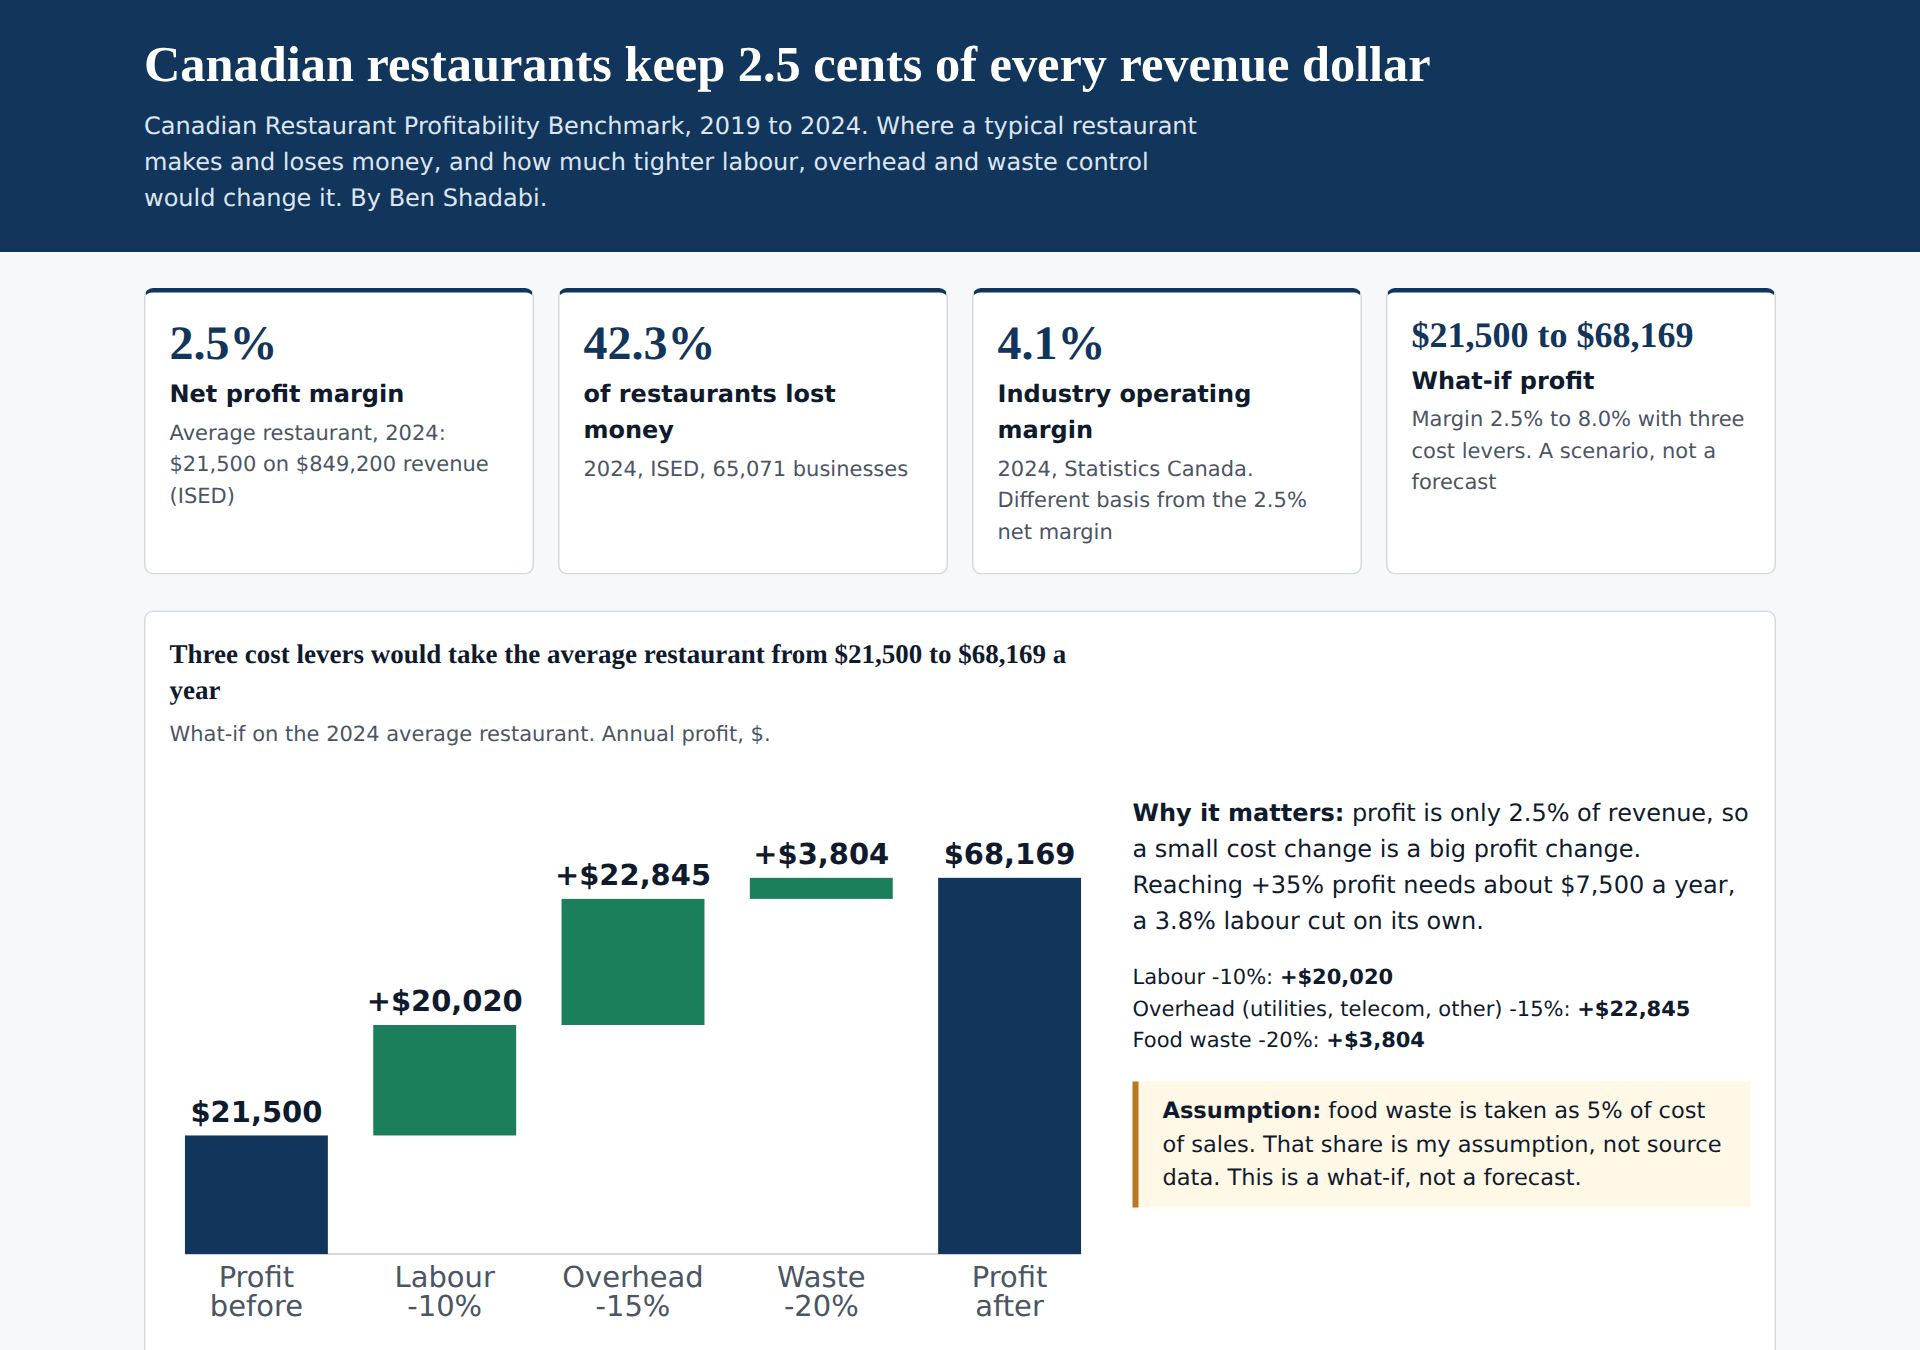
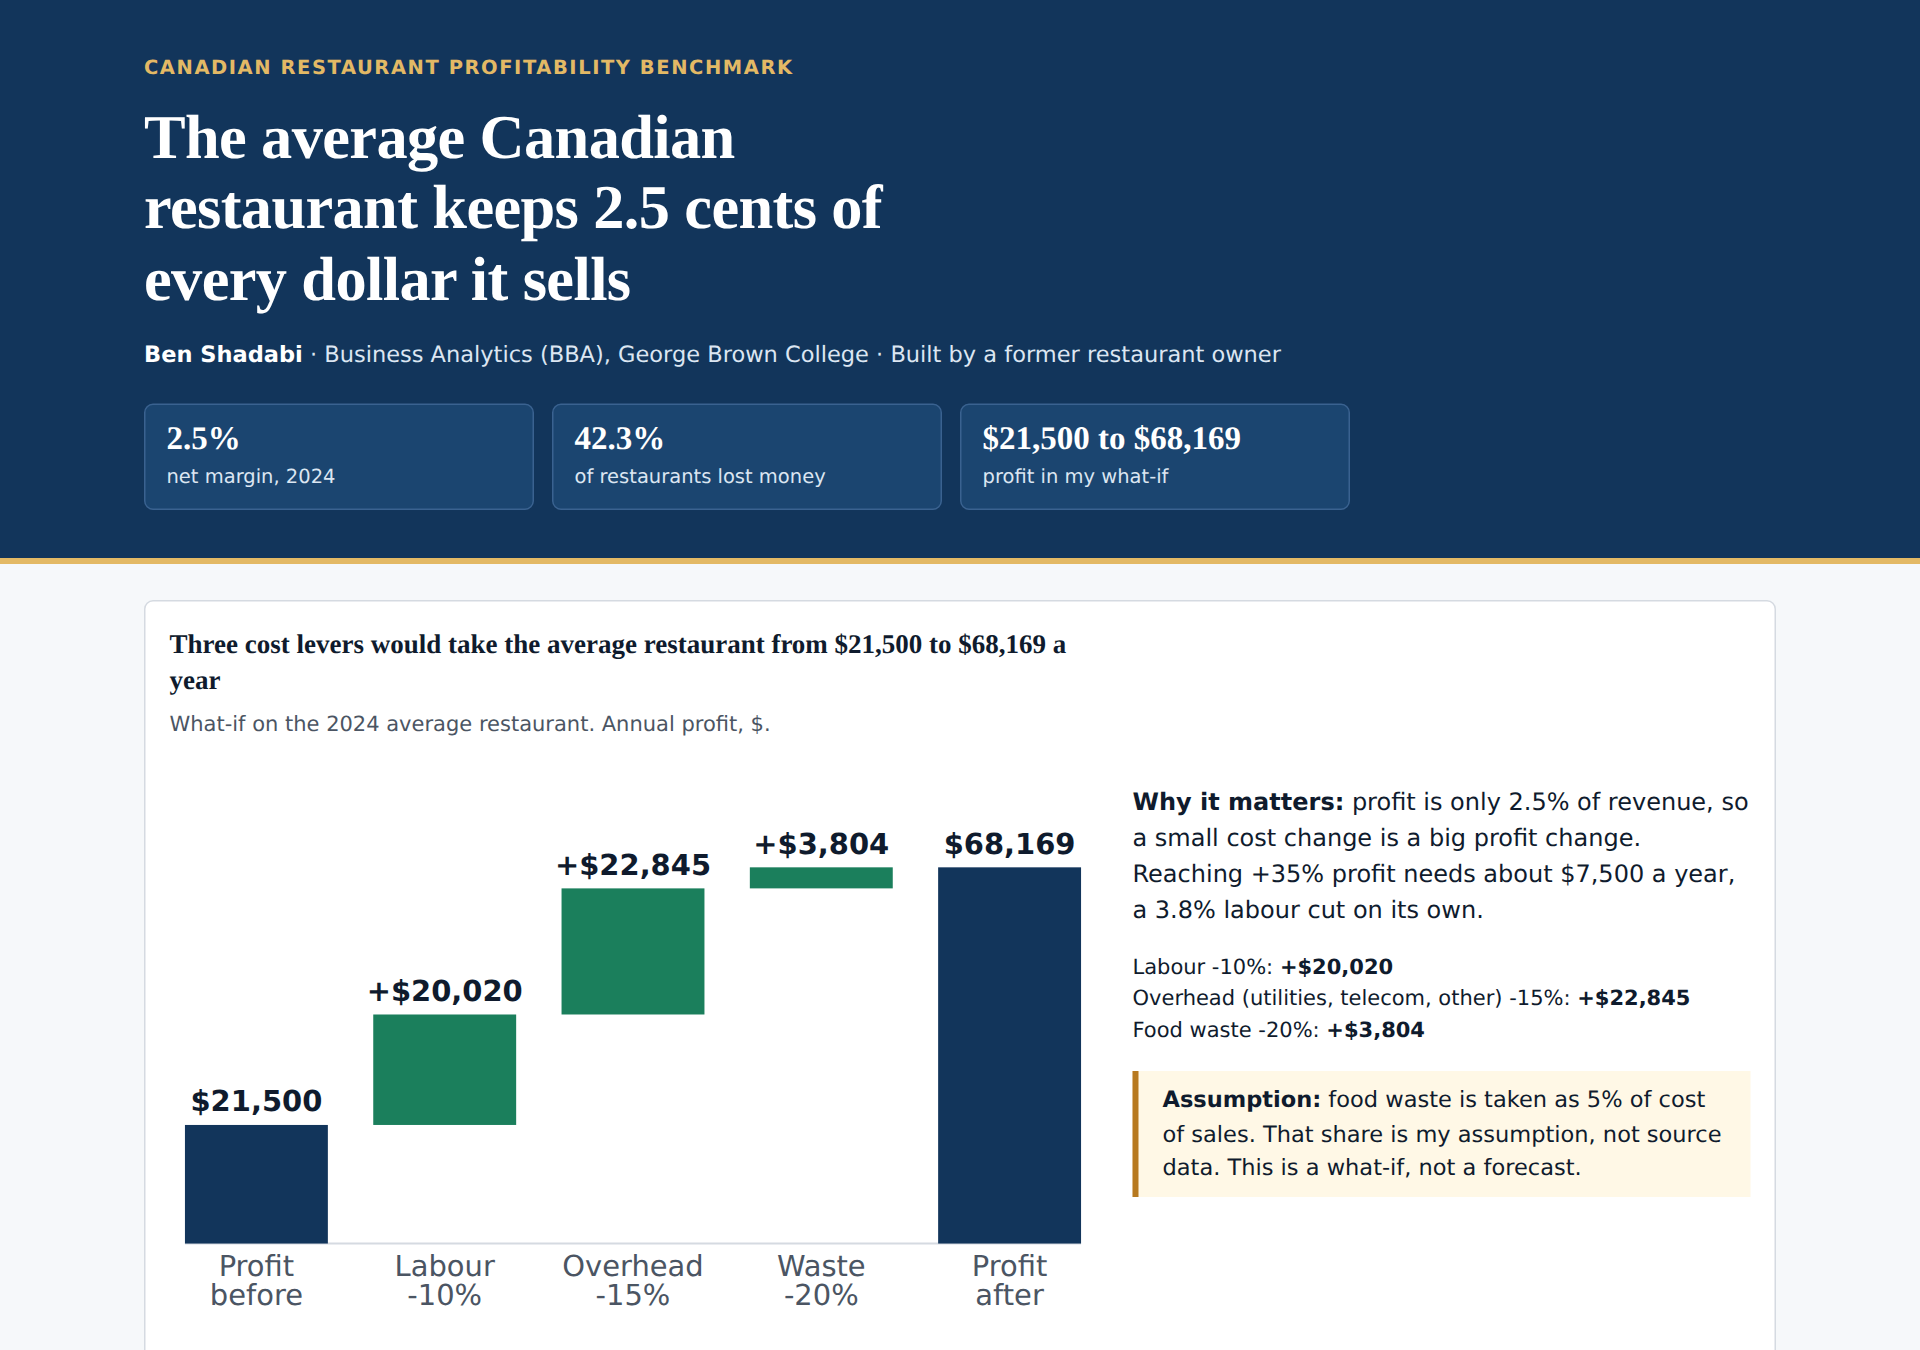
Dashboard header: finding headline, byline and three stat chips
Claude-Session: https://claude.ai/code/session_01T57CWqisSdhbNGN4esb2BE

diff --git a/docs/dashboard.html b/docs/dashboard.html
@@ -10,16 +10,16 @@
 body{margin:0;background:var(--bg);color:var(--ink);font:16px/1.5 var(--sans)}
 .wrap{max-width:1120px;margin:0 auto;padding:0 var(--sp3)}
 .skip{position:absolute;left:-999px}.skip:focus{left:var(--sp3);top:var(--sp2);background:#fff;padding:var(--sp2);z-index:9}
-header{background:var(--navy);color:#fff;padding:var(--sp4) 0}
-header h1{font:600 clamp(1.5rem,4vw,2.1rem)/1.2 var(--serif);margin:0 0 var(--sp2)}
-header p{margin:0;color:#DCE6F2;max-width:70ch}
+header{background:var(--navy);color:#fff;padding:36px 0 32px;border-bottom:4px solid #E3B965}
+.kicker{margin:0 0 12px;font-size:.8125rem;letter-spacing:.08em;text-transform:uppercase;color:#E3B965;font-weight:600}
+header h1{font:600 clamp(1.65rem,4.6vw,2.6rem)/1.15 var(--serif);letter-spacing:-.01em;margin:0;max-width:26ch}
+.by{margin:14px 0 0;font-size:.9375rem;color:#DCE6F2}.by strong{color:#fff}
+.chips{display:flex;gap:12px;flex-wrap:wrap;margin:22px 0 0;padding:0;list-style:none}
+.chips li{padding:10px 14px;border-radius:6px;min-width:150px;flex:1 1 150px;max-width:260px;background:#1B4570;border:1px solid #3A6290}
+.chips b{display:block;font:600 1.375rem/1.1 var(--serif)}.chips span{font-size:.8125rem;color:#DCE6F2}
 h2{font:600 1.125rem/1.35 var(--serif);margin:0 0 var(--sp2);color:var(--ink)}
-.kpis{display:grid;grid-template-columns:repeat(4,1fr);gap:var(--sp3);margin:var(--sp4) 0}
-.kpi{background:var(--card);border:1px solid var(--grid);border-top:3px solid var(--navy);border-radius:6px;padding:var(--sp3)}
-.kpi .v{font:600 2rem/1.1 var(--serif);color:var(--navy)}.kpi .v.sm{font-size:1.5rem}
-.kpi .l{font-weight:600;margin-top:var(--sp1)}.kpi .s{color:var(--muted);font-size:.875rem;margin-top:var(--sp1)}
 .card{background:var(--card);border:1px solid var(--grid);border-radius:6px;padding:var(--sp3) var(--sp3) var(--sp4)}
-.hero{margin-bottom:var(--sp3)}
+.hero{margin:var(--sp4) 0 var(--sp3)}
 .hero .in{display:grid;grid-template-columns:3fr 2fr;gap:var(--sp4);align-items:center}
 .grid{display:grid;grid-template-columns:repeat(2,1fr);gap:var(--sp3);margin-bottom:var(--sp3)}
 .sub{color:var(--muted);font-size:.875rem;margin:0 0 var(--sp2)}
@@ -39,20 +39,17 @@ summary:focus-visible,a:focus-visible{outline:3px solid var(--gold);outline-offs
 .tw{overflow-x:auto;margin-bottom:var(--sp3)}table{border-collapse:collapse;width:100%;font-size:.875rem;font-variant-numeric:tabular-nums}
 th,td{padding:6px 10px;border-bottom:1px solid var(--grid);text-align:right;white-space:nowrap}th:first-child,td:first-child{text-align:left}th{background:#EEF1F5}
 footer{color:var(--muted);font-size:.875rem;padding:var(--sp3) 0 var(--sp5)}footer a,.notes a{color:var(--navy)}
-@media(max-width:900px){.kpis{grid-template-columns:repeat(2,1fr)}.hero .in{grid-template-columns:1fr}.grid{grid-template-columns:1fr}}
-@media(max-width:480px){.kpi .v{font-size:1.625rem}.kpi .v.sm{font-size:1.25rem}.bars li{grid-template-columns:1fr 56px}.bars .bar{grid-column:1/-1;grid-row:2}.bars .k{grid-column:1}.bars b{grid-column:2;grid-row:1}}
-@media print{header{background:#fff;color:#000}header p{color:#000}.card,.kpi{break-inside:avoid}}
+@media(max-width:900px){.hero .in{grid-template-columns:1fr}.grid{grid-template-columns:1fr}}
+@media(max-width:480px){.bars li{grid-template-columns:1fr 56px}.bars .bar{grid-column:1/-1;grid-row:2}.bars .k{grid-column:1}.bars b{grid-column:2;grid-row:1}}
+@media print{header{background:#fff;color:#000}header p,.by,.kicker,.chips span{color:#000}.chips li{background:#fff;border-color:#000}.card{break-inside:avoid}}
 </style></head><body>
 <a class="skip" href="#main">Skip to content</a>
-<header><div class="wrap"><h1>Canadian restaurants keep 2.5 cents of every revenue dollar</h1>
-<p>Canadian Restaurant Profitability Benchmark, 2019 to 2024. Where a typical restaurant makes and loses money, and how much tighter labour, overhead and waste control would change it. By Ben Shadabi.</p></div></header>
+<header><div class="wrap"><p class="kicker">Canadian Restaurant Profitability Benchmark</p>
+<h1>The average Canadian restaurant keeps 2.5 cents of every dollar it sells</h1>
+<p class="by"><strong>Ben Shadabi</strong> · Business Analytics (BBA), George Brown College · Built by a former restaurant owner</p>
+<ul class="chips"><li><b>2.5%</b><span>net margin, 2024</span></li><li><b>42.3%</b><span>of restaurants lost money</span></li><li><b>$21,500 to $68,169</b><span>profit in my what-if</span></li></ul></div></header>
 <main id="main" class="wrap">
-<section class="kpis" aria-label="Key numbers">
-<div class="kpi"><div class="v">2.5%</div><div class="l">Net profit margin</div><div class="s">Average restaurant, 2024: $21,500 on $849,200 revenue (ISED)</div></div>
-<div class="kpi"><div class="v">42.3%</div><div class="l">of restaurants lost money</div><div class="s">2024, ISED, 65,071 businesses</div></div>
-<div class="kpi"><div class="v">4.1%</div><div class="l">Industry operating margin</div><div class="s">2024, Statistics Canada. Different basis from the 2.5% net margin</div></div>
-<div class="kpi"><div class="v sm">$21,500 to $68,169</div><div class="l">What-if profit</div><div class="s">Margin 2.5% to 8.0% with three cost levers. A scenario, not a forecast</div></div>
-</section>
+
 
 <section class="card hero" aria-labelledby="h-wf"><div class="in"><div>
 <h2 id="h-wf">Three cost levers would take the average restaurant from $21,500 to $68,169 a year</h2>

diff --git a/analysis/build_dashboard.py b/analysis/build_dashboard.py
@@ -169,16 +169,16 @@ CSS = f"""
 body{{margin:0;background:var(--bg);color:var(--ink);font:16px/1.5 var(--sans)}}
 .wrap{{max-width:1120px;margin:0 auto;padding:0 var(--sp3)}}
 .skip{{position:absolute;left:-999px}}.skip:focus{{left:var(--sp3);top:var(--sp2);background:#fff;padding:var(--sp2);z-index:9}}
-header{{background:var(--navy);color:#fff;padding:var(--sp4) 0}}
-header h1{{font:600 clamp(1.5rem,4vw,2.1rem)/1.2 var(--serif);margin:0 0 var(--sp2)}}
-header p{{margin:0;color:#DCE6F2;max-width:70ch}}
+header{{background:var(--navy);color:#fff;padding:36px 0 32px;border-bottom:4px solid #E3B965}}
+.kicker{{margin:0 0 12px;font-size:.8125rem;letter-spacing:.08em;text-transform:uppercase;color:#E3B965;font-weight:600}}
+header h1{{font:600 clamp(1.65rem,4.6vw,2.6rem)/1.15 var(--serif);letter-spacing:-.01em;margin:0;max-width:26ch}}
+.by{{margin:14px 0 0;font-size:.9375rem;color:#DCE6F2}}.by strong{{color:#fff}}
+.chips{{display:flex;gap:12px;flex-wrap:wrap;margin:22px 0 0;padding:0;list-style:none}}
+.chips li{{padding:10px 14px;border-radius:6px;min-width:150px;flex:1 1 150px;max-width:260px;background:#1B4570;border:1px solid #3A6290}}
+.chips b{{display:block;font:600 1.375rem/1.1 var(--serif)}}.chips span{{font-size:.8125rem;color:#DCE6F2}}
 h2{{font:600 1.125rem/1.35 var(--serif);margin:0 0 var(--sp2);color:var(--ink)}}
-.kpis{{display:grid;grid-template-columns:repeat(4,1fr);gap:var(--sp3);margin:var(--sp4) 0}}
-.kpi{{background:var(--card);border:1px solid var(--grid);border-top:3px solid var(--navy);border-radius:6px;padding:var(--sp3)}}
-.kpi .v{{font:600 2rem/1.1 var(--serif);color:var(--navy)}}.kpi .v.sm{{font-size:1.5rem}}
-.kpi .l{{font-weight:600;margin-top:var(--sp1)}}.kpi .s{{color:var(--muted);font-size:.875rem;margin-top:var(--sp1)}}
 .card{{background:var(--card);border:1px solid var(--grid);border-radius:6px;padding:var(--sp3) var(--sp3) var(--sp4)}}
-.hero{{margin-bottom:var(--sp3)}}
+.hero{{margin:var(--sp4) 0 var(--sp3)}}
 .hero .in{{display:grid;grid-template-columns:3fr 2fr;gap:var(--sp4);align-items:center}}
 .grid{{display:grid;grid-template-columns:repeat(2,1fr);gap:var(--sp3);margin-bottom:var(--sp3)}}
 .sub{{color:var(--muted);font-size:.875rem;margin:0 0 var(--sp2)}}
@@ -198,9 +198,9 @@ summary:focus-visible,a:focus-visible{{outline:3px solid var(--gold);outline-off
 .tw{{overflow-x:auto;margin-bottom:var(--sp3)}}table{{border-collapse:collapse;width:100%;font-size:.875rem;font-variant-numeric:tabular-nums}}
 th,td{{padding:6px 10px;border-bottom:1px solid var(--grid);text-align:right;white-space:nowrap}}th:first-child,td:first-child{{text-align:left}}th{{background:#EEF1F5}}
 footer{{color:var(--muted);font-size:.875rem;padding:var(--sp3) 0 var(--sp5)}}footer a,.notes a{{color:var(--navy)}}
-@media(max-width:900px){{.kpis{{grid-template-columns:repeat(2,1fr)}}.hero .in{{grid-template-columns:1fr}}.grid{{grid-template-columns:1fr}}}}
-@media(max-width:480px){{.kpi .v{{font-size:1.625rem}}.kpi .v.sm{{font-size:1.25rem}}.bars li{{grid-template-columns:1fr 56px}}.bars .bar{{grid-column:1/-1;grid-row:2}}.bars .k{{grid-column:1}}.bars b{{grid-column:2;grid-row:1}}}}
-@media print{{header{{background:#fff;color:#000}}header p{{color:#000}}.card,.kpi{{break-inside:avoid}}}}
+@media(max-width:900px){{.hero .in{{grid-template-columns:1fr}}.grid{{grid-template-columns:1fr}}}}
+@media(max-width:480px){{.bars li{{grid-template-columns:1fr 56px}}.bars .bar{{grid-column:1/-1;grid-row:2}}.bars .k{{grid-column:1}}.bars b{{grid-column:2;grid-row:1}}}}
+@media print{{header{{background:#fff;color:#000}}header p,.by,.kicker,.chips span{{color:#000}}.chips li{{background:#fff;border-color:#000}}.card{{break-inside:avoid}}}}
 """
 
 page = f"""<!doctype html>
@@ -209,15 +209,12 @@ page = f"""<!doctype html>
 <meta name="description" content="The average Canadian restaurant earned a {m0:.1f}% net margin in 2024, and {LOSS_SHARE}% lost money. Public Statistics Canada and ISED data, 2019 to 2024.">
 <style>{CSS}</style></head><body>
 <a class="skip" href="#main">Skip to content</a>
-<header><div class="wrap"><h1>Canadian restaurants keep {m0:.1f} cents of every revenue dollar</h1>
-<p>Canadian Restaurant Profitability Benchmark, 2019 to 2024. Where a typical restaurant makes and loses money, and how much tighter labour, overhead and waste control would change it. By Ben Shadabi.</p></div></header>
+<header><div class="wrap"><p class="kicker">Canadian Restaurant Profitability Benchmark</p>
+<h1>The average Canadian restaurant keeps {m0:.1f} cents of every dollar it sells</h1>
+<p class="by"><strong>Ben Shadabi</strong> · Business Analytics (BBA), George Brown College · Built by a former restaurant owner</p>
+<ul class="chips"><li><b>{m0:.1f}%</b><span>net margin, 2024</span></li><li><b>{LOSS_SHARE}%</b><span>of restaurants lost money</span></li><li><b>{d(p0)} to {d(p1)}</b><span>profit in my what-if</span></li></ul></div></header>
 <main id="main" class="wrap">
-<section class="kpis" aria-label="Key numbers">
-<div class="kpi"><div class="v">{m0:.1f}%</div><div class="l">Net profit margin</div><div class="s">Average restaurant, 2024: {d(p0)} on {d(rev)} revenue (ISED)</div></div>
-<div class="kpi"><div class="v">{LOSS_SHARE}%</div><div class="l">of restaurants lost money</div><div class="s">2024, ISED, {N_BUS:,} businesses</div></div>
-<div class="kpi"><div class="v">{op24:.1f}%</div><div class="l">Industry operating margin</div><div class="s">2024, Statistics Canada. Different basis from the {m0:.1f}% net margin</div></div>
-<div class="kpi"><div class="v sm">{d(p0)} to {d(p1)}</div><div class="l">What-if profit</div><div class="s">Margin {m0:.1f}% to {m1:.1f}% with three cost levers. A scenario, not a forecast</div></div>
-</section>
+
 
 <section class="card hero" aria-labelledby="h-wf"><div class="in"><div>
 <h2 id="h-wf">Three cost levers would take the average restaurant from {d(p0)} to {d(p1)} a year</h2>
